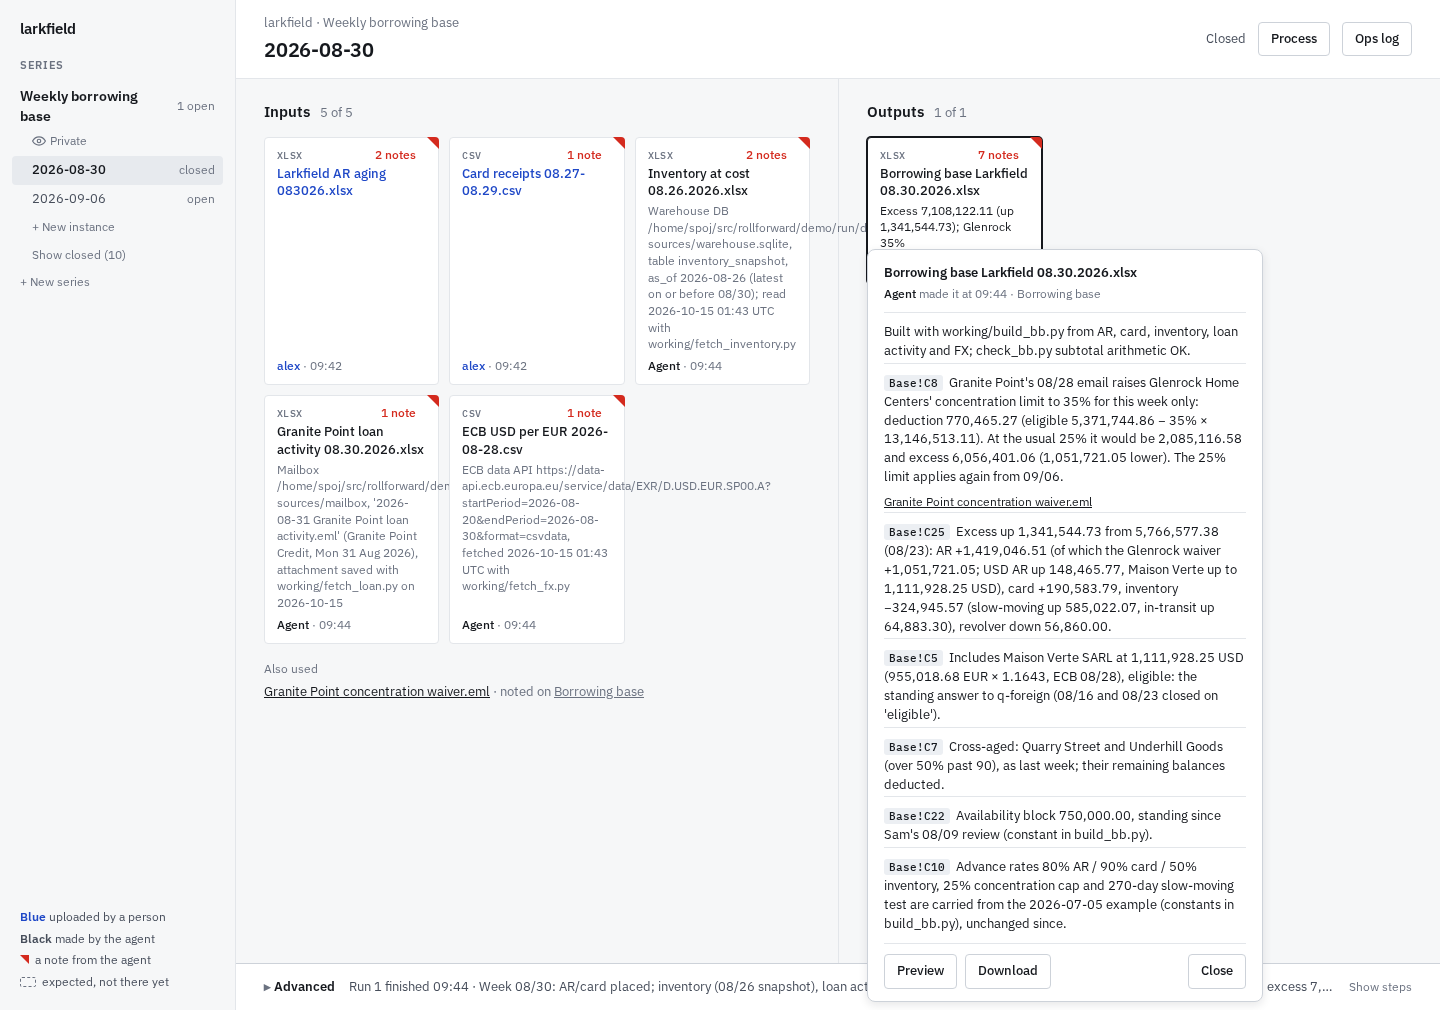
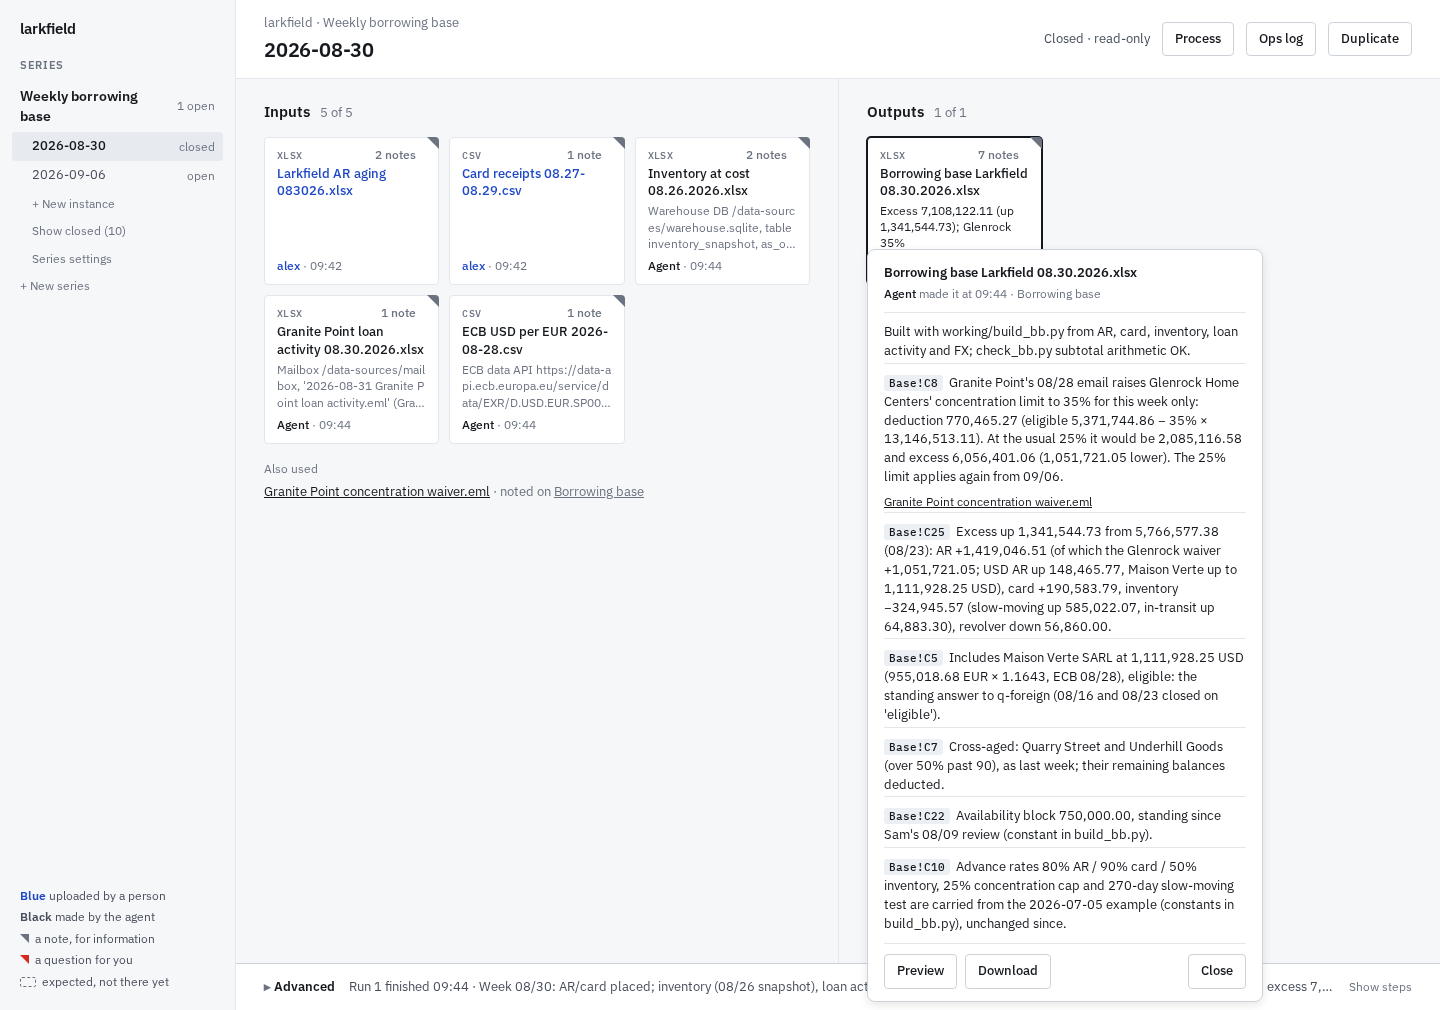
Hide the Steer box on closed and abandoned instances. README screenshots show gray notes, compare with previous, Advanced and the phone

diff --git a/web/index.html b/web/index.html
@@ -177,6 +177,7 @@ a[data-act=preview], a[data-act=opencard] { text-decoration: underline; cursor: 
 .trace .bad { color: var(--note); }
 .spin { display: inline-block; width: 8px; height: 8px; border: 2px solid var(--rule-2); border-top-color: var(--ink); border-radius: 50%; animation: spin .8s linear infinite; vertical-align: -1px; }
 @keyframes spin { to { transform: rotate(360deg); } }
+.compose[hidden] { display: none; }
 .compose { border-top: 1px solid var(--rule); background: var(--sheet); padding: 10px 28px 14px; display: flex; gap: 8px; }
 .compose input { flex: 1; min-width: 0; background: var(--sheet); border: 1px solid var(--rule-2); border-radius: var(--r1); padding: 8px 10px; font: inherit; }
 
@@ -456,6 +457,7 @@ function renderAdv() {
   $('#adv').className = 'adv' + (ui.adv ? ' open' : '');
   $('#adv').hidden = !data;
   if (!data) return;
+  $('#compose').hidden = data.workspace.status !== 'open';
   const d = lastDone();
   const cost = data.log.reduce((t, e) => t + (e.cost ?? 0), 0);
   const s = (data.run ? `Run ${data.run.n} running` : d ? `Run ${d.run} finished ${hhmm(d.at)}${d.summary ? ' · ' + d.summary : ''}` : 'No runs yet') + (cost ? ` · ${usd(cost)} so far` : '');

diff --git a/README.md b/README.md
@@ -9,9 +9,11 @@ Recurring tasks, files in and files out. People drop this period's input files i
 - **Series can share.** A series can let other series read it, one way.
 - **Everything is files on disk.** Each instance has `upload/` (people's files), `working/` (the agent's), `workspace.json` (what the screen shows) and `log.jsonl` (every event).
 
-| Notes and questions | Preview with noted cells | Phone |
-|---|---|---|
-| ![Notes](docs/screenshots/notes.png) | ![Preview](docs/screenshots/preview.png) | ![Phone](docs/screenshots/phone.png) |
+| A tile's notes | Preview, compared with the file it replaced |
+|---|---|
+| ![Notes](docs/screenshots/notes.png) | ![Preview](docs/screenshots/preview.png) |
+| **Advanced: the agent's steps** | **Phone** |
+| ![Advanced](docs/screenshots/advanced.png) | ![Phone](docs/screenshots/phone.png) |
 
 ## Try it
 
